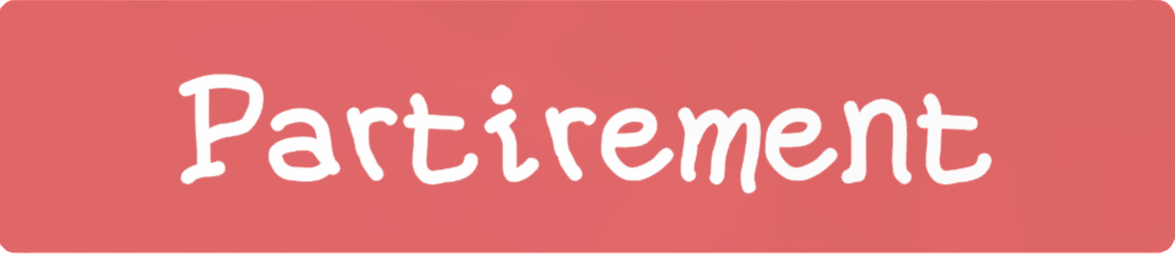
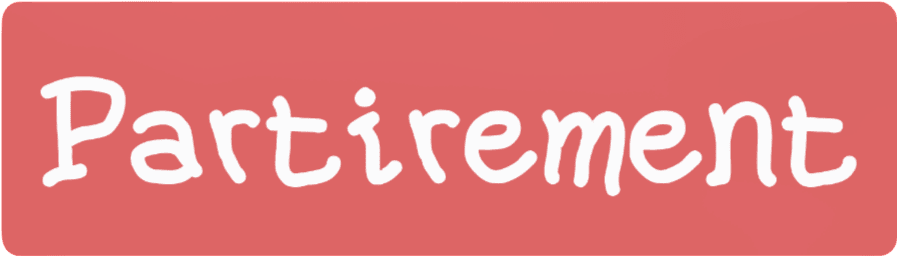
add: buttons for music menu fix: corrected the buttons sprites

diff --git a/assets/btn_prototyping/style.css b/assets/btn_prototyping/style.css
@@ -1,0 +1,86 @@
+* {
+    padding: 0px;
+    margin: 0px;
+}
+@font-face {
+    font-family: 'mainfont';
+    src: url('../fonts/mainFont.ttf') format('truetype');
+    font-weight: normal;
+    font-style: normal;
+}
+body {
+    height: 100vh;
+    width: 100vw;
+    background-color: #000;
+    display: flex;
+    justify-content: center;
+    align-items: center;
+    flex-direction: row;
+}
+.container {
+    height: 80%;
+    width: 33%;
+    display: flex;
+    justify-content: space-around;
+    align-items: center;
+    flex-direction: column;
+}
+.mybtn {
+    background: #e06666;
+    border-radius: 11px;
+    border: 1px transparent solid;
+    padding: 20px 20px;
+    display: inline-block;
+    font: normal bold 33px/1 "Open Sans", sans-serif;
+    text-align: center;
+}
+
+.crossed::after {
+    z-index: 2;
+    content: "❌";
+    position: absolute;
+    top: 50%;
+    left: 50%;
+    transform: translate(-50%, 180%);
+    font-size: 69px;
+    pointer-events: none;
+}
+
+.slider {
+    -webkit-appearance: none;
+    width: 100%;
+    height: 15px;
+    border-radius: 5px;
+    background: #d3d3d3;
+    outline: none;
+    opacity: 0.7;
+    -webkit-transition: .2s;
+    transition: opacity .2s;
+}
+.slider::-webkit-slider-thumb {
+    -webkit-appearance: none;
+    appearance: none;
+    width: 25px;
+    height: 25px;
+    border-radius: 50%;
+    background: #442d27;
+    cursor: pointer;
+}
+
+.slider::-moz-range-thumb {
+    width: 25px;
+    height: 25px;
+    border-radius: 50%;
+    background: #442d27;
+    cursor: pointer;
+}
+
+p{
+    z-index: 0;
+    font-size: 100px;
+    font-family: 'mainfont', sans-serif;
+    color: #fff;
+
+    display: inline-block;
+    position: relative;
+}

diff --git a/assets/btn_prototyping/index.html b/assets/btn_prototyping/index.html
@@ -1,0 +1,50 @@
+<!DOCTYPE html>
+<html lang="en">
+<head>
+    <meta charset="UTF-8">
+    <meta name="viewport" content="width=device-width, initial-scale=1.0">
+    <link rel="stylesheet" href="style.css">
+    <title>CacaClicker btns</title>
+</head>
+<body>
+    <div class="container main_menu">
+        <button class="mybtn">
+            <p>Jouation</p>
+        </button>
+        <button class="mybtn">
+            <p>Optionnage</p>
+        </button>
+        <button class="mybtn">
+            <p>Partirement</p>
+        </button>
+    </div>
+    <div class="container music_menu">
+        <button class="mybtn">
+            <p>🎵</p>
+        </button>
+        <button class="mybtn crossed">
+            <p>🎵</p>
+        </button>
+    </div>
+    <div class="container">
+        <button class="mybtn">
+            <input class="slider" type="range" min="0" max="100" value="00"> <br>
+        </button>
+        <button class="mybtn">
+            <input class="slider" type="range" min="0" max="100" value="20"> <br>
+        </button>
+        <button class="mybtn">
+            <input class="slider" type="range" min="0" max="100" value="40"> <br>
+        </button>
+        <button class="mybtn">
+            <input class="slider" type="range" min="0" max="100" value="60"> <br>
+        </button>
+        <button class="mybtn">
+            <input class="slider" type="range" min="0" max="100" value="80"> <br>
+        </button>
+        <button class="mybtn">
+            <input class="slider" type="range" min="0" max="100" value="100"> <br>
+        </button>
+    </div>
+</body>
+</html>
